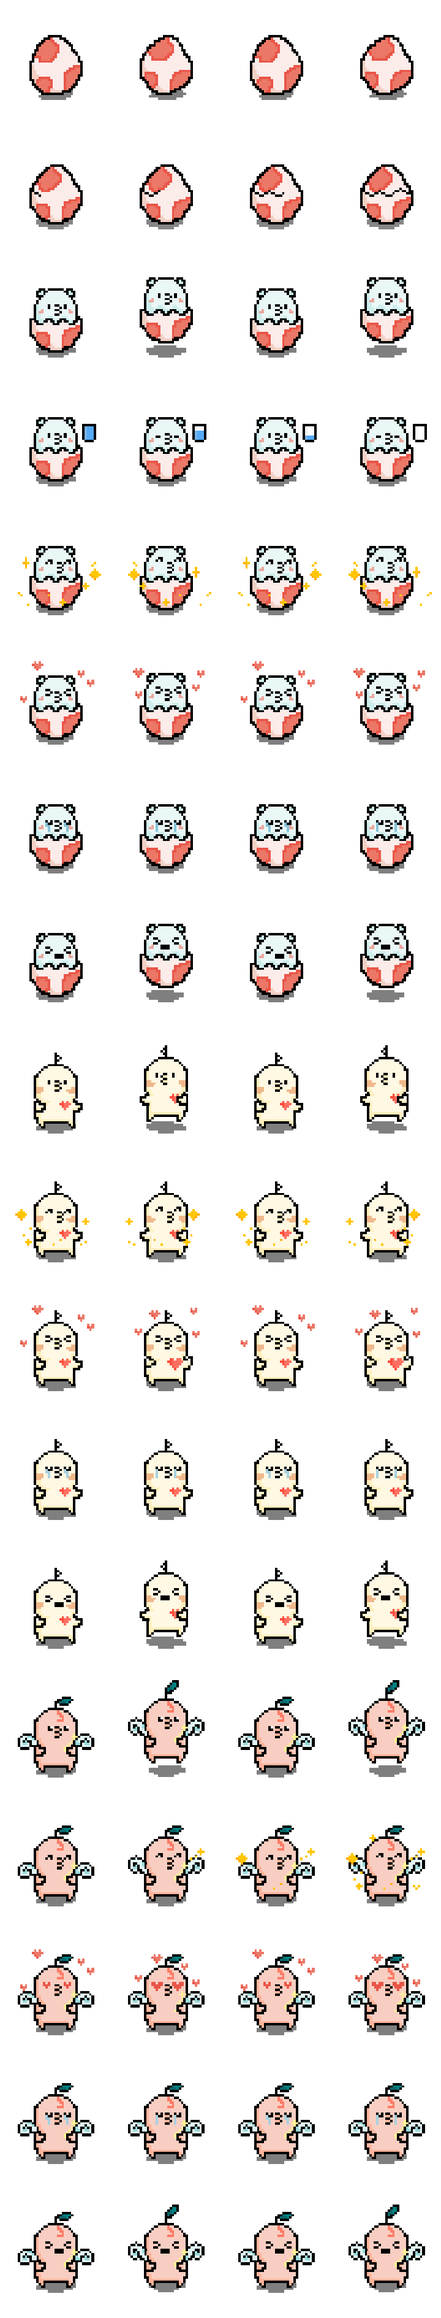
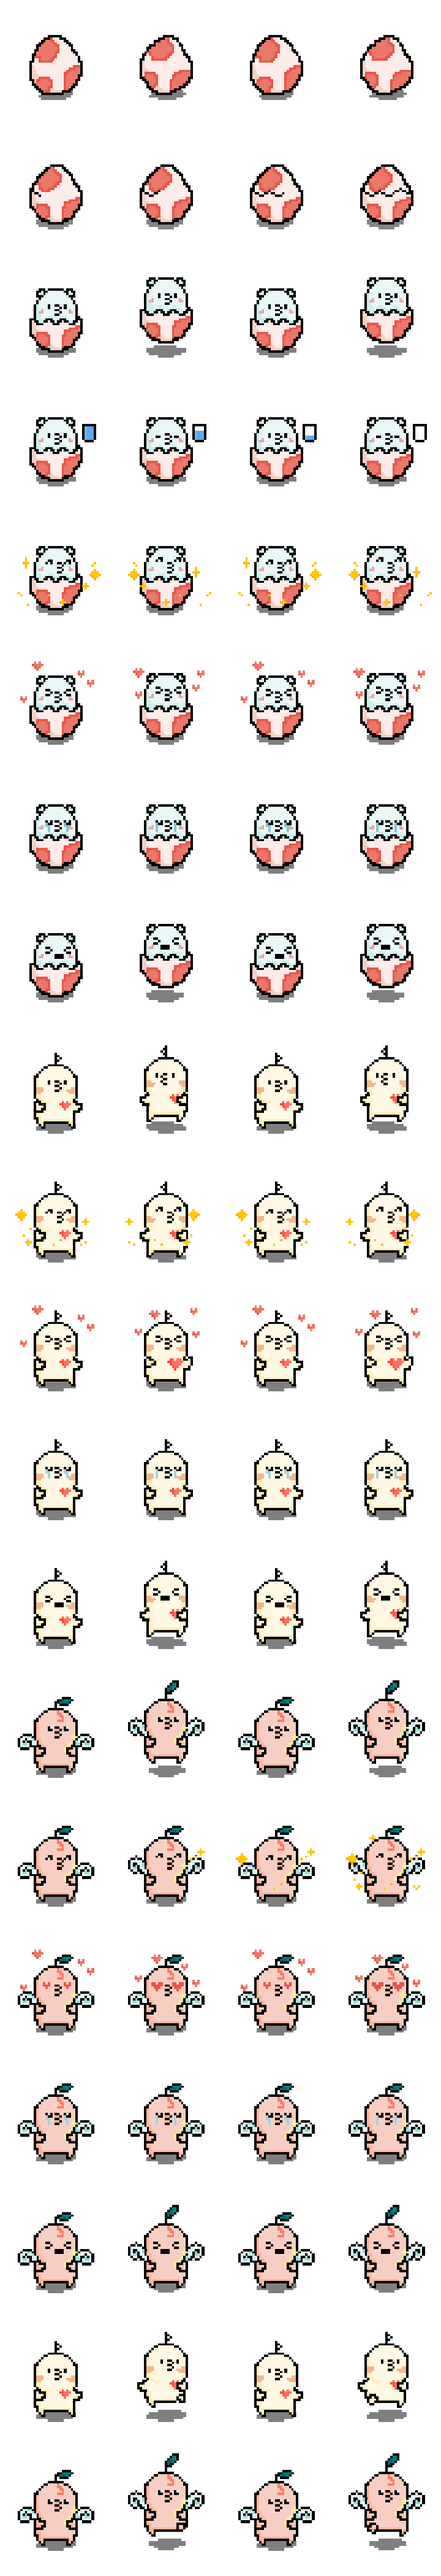
Fix in the morning.

diff --git a/StateContext.js b/StateContext.js
@@ -31,7 +31,6 @@ class StateProvider extends Component {
       isWalking: false,
       isFinding: false,
 
-      previousStep: 0,
       isPedometerAvailable: "checking",
 
       /**
@@ -41,7 +40,8 @@ class StateProvider extends Component {
        */
       isDesiringItem: false,
       desiredItemId: null,
-      distanceToItem: 100,
+
+      isGoing: false,
 
       isThirsty: false,
       isDrinking: false,
@@ -60,7 +60,8 @@ class StateProvider extends Component {
       pickUpItem: this.pickUpItem,
       becomeThirsty: this.becomeThirsty,
       evolve: this.evolve,
-      happy: this.happy
+      happy: this.happy,
+      go: this.go,
     };
   }
 
@@ -117,7 +118,7 @@ class StateProvider extends Component {
       this.state.isDesiringItem
     ) {
       if (!this.state.isAppForeground) {
-        this.setState({ previousStep: step });
+        this.previousStep = step;
         return;
       }
     }
@@ -125,29 +126,24 @@ class StateProvider extends Component {
     // 타이머가 있었을 시 초기화한다.
     this.clearStopWalkingTimer();
 
-    const dStep = step - this.state.previousStep;
+    const dStep = step - this.previousStep;
     const distanceToItem = Math.max(
-      this.state.distanceToItem - dStep,
+      this.distanceToItem - dStep,
       Constants.FIND_ITEM_DISTANCE
     );
 
     // 이미 isWalking이라면 다시 true할 필요 없다.
-    const newState = this.state.isWalking
-      ? {
-          distanceToItem: distanceToItem,
-          previousStep: step
-        }
-      : {
-          distanceToItem: distanceToItem,
-          previousStep: step,
-          isWalking: true
-        };
-    this.setState(newState, () => {
-      // 타이머를 설정한다.
-      this.setStopWalkingTimer();
-      // 아이템과의 거리가 FIND_ITEM_DISTANCE 보다 가까워졌을 시 findItem을 실행한다.
-      distanceToItem <= Constants.FIND_ITEM_DISTANCE && this.findItem();
-    });
+    this.distanceToItem = distanceToItem
+    this.previousStep = step
+
+    if (!this.state.isWalking) {
+      this.setState(newState, () => {
+        // 타이머를 설정한다.
+        this.setStopWalkingTimer();
+        // 아이템과의 거리가 FIND_ITEM_DISTANCE 보다 가까워졌을 시 findItem을 실행한다.
+        distanceToItem <= Constants.FIND_ITEM_DISTANCE && this.findItem();
+      });
+    }
   };
 
   // 걸었다는 신호가 들어온 뒤 WALKING_STOPPER_MILLISECONDS가 지나면 걷지 않는 상태로 만든다.
@@ -193,13 +189,23 @@ class StateProvider extends Component {
   // 일정 확률로 아이템을 원하는 상태로 만든다.
   setDesiringItemRandomly = () => {
     const x = Math.random();
-    if (x <= Constants.CHANCE_TO_GET_DESIRING && !this.state.isDesiringItem) {
+    if (x <= Constants.CHANCE_TO_GET_DESIRING 
+      && !this.state.isDesiringItem
+      && !this.state.isGoing) {
       this.setState({ isDesiringItem: true }, () => {
         // TODO : 아이템 필요해요.
         this.setMessage("");
       });
     }
   };
+
+  go = () => {
+    this.setState({ isGoing: true })
+  }
+
+  stop = () => {
+    this.setState({ isGoing: false })
+  }
 
   becomeThirsty = () => {
     this.drinkInterval = setInterval(() => {
@@ -215,7 +221,9 @@ class StateProvider extends Component {
   // 일정 확률로 목 마른 상태로 만든다.
   setThirstyRandomly = () => {
     const x = Math.random();
-    if (x <= Constants.CHANCE_TO_GET_THIRSTY && !this.state.isThirsty) {
+    if (x <= Constants.CHANCE_TO_GET_THIRSTY 
+      && !this.state.isThirsty
+      && !this.state.isGoing) {
       this.setState({ isThirsty: true }, () => {
         // TODO : 목 말라요
         this.setMessage("");
@@ -261,6 +269,7 @@ class StateProvider extends Component {
       }
     );
     this.setNextItem();
+    this.stop();
     this.earnLovePoint(this.generateEarningPoint());
   };
 
@@ -274,9 +283,9 @@ class StateProvider extends Component {
   // 캐릭터의 상태와는 별개로, 다음 아이템은 항상 정해져 있다.
   setNextItem = () => {
     const nextItemIndex = Math.floor(Math.random() * items.length);
+    this.distanceToItem = this.generateNextDistance()
     this.setState({
       desiredItemId: items[nextItemIndex].id,
-      distanceToItem: this.generateNextDistance()
     });
   };
 

diff --git a/MainArea.js b/MainArea.js
@@ -46,7 +46,7 @@ const getSpriteIndex = (growthStage, state) => {
     }
   } else if (growthStage === 1) {
     if (state === CHARACTER_STATE_WALKING) {
-      startIndex = 32;
+      startIndex = 72;
     } else if (
       state === CHARACTER_STATE_THIRSTY ||
       state === CHARACTER_STATE_DESIRING
@@ -62,8 +62,8 @@ const getSpriteIndex = (growthStage, state) => {
       startIndex = 32;
     }
   } else {
-    if (state === 2) {
-      startIndex = 52;
+    if (state === CHARACTER_STATE_WALKING) {
+      startIndex = 76;
     } else if (
       state === CHARACTER_STATE_THIRSTY ||
       state === CHARACTER_STATE_DESIRING
@@ -129,7 +129,7 @@ class MainArea extends Component {
       { loop: true }
     );
 
-    if (this.props.data.isWalking) {
+    if (this.props.characterState === CHARACTER_STATE_WALKING) {
       this.animate = Animated.loop(
         Animated.timing(this.state.bgPos, {
           duration: 15000,
@@ -143,14 +143,21 @@ class MainArea extends Component {
       if (this.animate) this.animate.stop();
     }
   };
+
   onPress = () => {
     if (this.props.data.hatchingLevel !== BORN) {
       this.props.actions.hatch();
       return;
     }
 
-    if (this.props.data.isThirsty) {
+    if (this.props.characterState === CHARACTER_STATE_THIRSTY) {
       this.props.actions.drink();
+      return;
+    }
+
+    if (this.props.characterState === CHARACTER_STATE_DESIRING) {
+      this.props.actions.go();
+      return;
     }
 
     this.props.actions.happy();
@@ -205,7 +212,7 @@ class MainArea extends Component {
             />
           </View>
         ) : null}
-        {this.props.data.isWalking ? (
+        {this.props.data.isGoing ? (
           <Animated.View
             style={{
               left: this.state.bgPos
@@ -229,14 +236,14 @@ class MainArea extends Component {
 
         <View style={styles.characterContainer}>
           <TouchableOpacity onPress={this.onPress}>
-            {this.props.data.isDesiringItem &&
-            characterState !== CHARACTER_STATE_EVOLVING ? (
+            {characterState === CHARACTER_STATE_DESIRING 
+            && !this.props.data.isGoing ? (
               <View style={styles.bubbleContainer}>
                 <Image source={require("./assets/want_03_proteinchoco.png")} />
               </View>
             ) : null}
-            {this.props.data.isThirsty &&
-            characterState !== CHARACTER_STATE_EVOLVING ? (
+            {characterState === CHARACTER_STATE_THIRSTY
+            && !this.props.data.isGoing ? (
               <View style={styles.bubbleContainer}>
                 <Image source={require("./assets/want_01_water.png")} />
               </View>
@@ -246,7 +253,7 @@ class MainArea extends Component {
               ref={ref => (this.character = ref)}
               source={require("./assets/danogotchi_character_last.png")}
               columns={4}
-              rows={18}
+              rows={20}
               animations={{
                 hatch1: [0, 1, 2, 3],
                 hatch2: [4, 5, 6, 7],

diff --git a/MainView.js b/MainView.js
@@ -14,11 +14,13 @@ const getCharacterState = state => {
     return Constants.CHARACTER_STATE_EVOLVING;
   } else if (state.isFinding) {
     return Constants.CHARACTER_STATE_FINDING;
+  } else if (state.isGoing) {
+      return state.isWalking ? Constants.CHARACTER_STATE_WALKING : Constants.CHARACTER_STATE_DEFAULT
   } else if (state.isDesiringItem) {
     return Constants.CHARACTER_STATE_DESIRING;
   } else if (state.isWalking) {
     return Constants.CHARACTER_STATE_WALKING;
-  } else if (state.isThirsty) {
+  }else if (state.isThirsty) {
     return Constants.CHARACTER_STATE_THIRSTY;
   } else {
     return Constants.CHARACTER_STATE_DEFAULT;
@@ -27,13 +29,12 @@ const getCharacterState = state => {
 class MainView extends React.Component {
   render = () => {
     const characterState = getCharacterState(this.props.homeProvider.state);
-
     return (
       <>
         <MainArea
           characterState={characterState}
           actions={this.props.homeProvider.actions}
-          data={this.props.homeProvider.state} // TODO: 위에거랑 합치기
+          data={this.props.homeProvider.state}
         />
 
         {/* TODO: zindex 이슈로 넣으면 클릭이안됨 */}

diff --git a/Constants.js b/Constants.js
@@ -12,7 +12,7 @@ export const BORN = 2;
 
 export const HATCHING_MILLISECONDS = 1000;
 export const WALKING_STOPPER_MILLISECONDS = 3000;
-export const GET_THIRSTY_MILLISECONDS = 8000;
+export const GET_THIRSTY_MILLISECONDS = 500;
 export const DRINK_STOPPER_MILLISECONDS = 3000;
 export const DESIRE_ITEM_MILLISECONDS = 8000;
 export const HAPPY_STOPPER_MILLISECONDS = 2000;
@@ -26,6 +26,7 @@ export const CHARACTER_STATE_DEFAULT = "DEFAULT";
 export const CHARACTER_STATE_WALKING = "WALKING";
 export const CHARACTER_STATE_THIRSTY = "THIRSTY";
 export const CHARACTER_STATE_DESIRING = "DESIRING";
+export const CHARACTER_STATE_GOING = "GOING";
 export const CHARACTER_STATE_EVOLVING = "EVOLVING";
 export const CHARACTER_STATE_HAPPY = "HAPPY";
 export const CHARACTER_STATE_FINDING = "FINDING";
